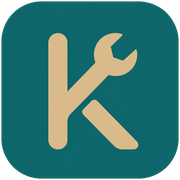
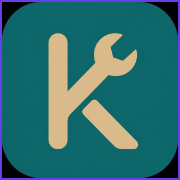
phase 1 and 2

diff --git a/app/manifest.js b/app/manifest.js
@@ -16,8 +16,11 @@ export default async function manifest() {
     background_color: "#FBF8F1",
     theme_color: "#163044",
     icons: [
+      { src: "/favicon.ico", sizes: "16x16 32x32", type: "image/x-icon" },
       { src: "/icons/icon-192.png", sizes: "192x192", type: "image/png", purpose: "any" },
       { src: "/icons/icon-512.png", sizes: "512x512", type: "image/png", purpose: "any" },
+      { src: "/icons/icon-192-maskable.png", sizes: "192x192", type: "image/png", purpose: "maskable" },
+      { src: "/icons/icon-512-maskable.png", sizes: "512x512", type: "image/png", purpose: "maskable" },
     ],
     ...(manifestUrl
       ? {

diff --git a/app/layout.js b/app/layout.js
@@ -11,8 +11,12 @@ export const metadata = {
   title: "Khaki — Jobs & Services in Palawan",
   description: "Post a task or find work. Connect with trusted locals across Palawan.",
   icons: {
-    icon: "/images/logo.png",
-    apple: "/icons/apple-touch-icon.png",
+    icon: [
+      { url: "/favicon.ico", sizes: "any" },
+      { url: "/icons/icon-192.png", sizes: "192x192", type: "image/png" },
+      { url: "/icons/icon-512.png", sizes: "512x512", type: "image/png" },
+    ],
+    apple: "/apple-touch-icon.png",
   },
   appleWebApp: {
     capable: true,
